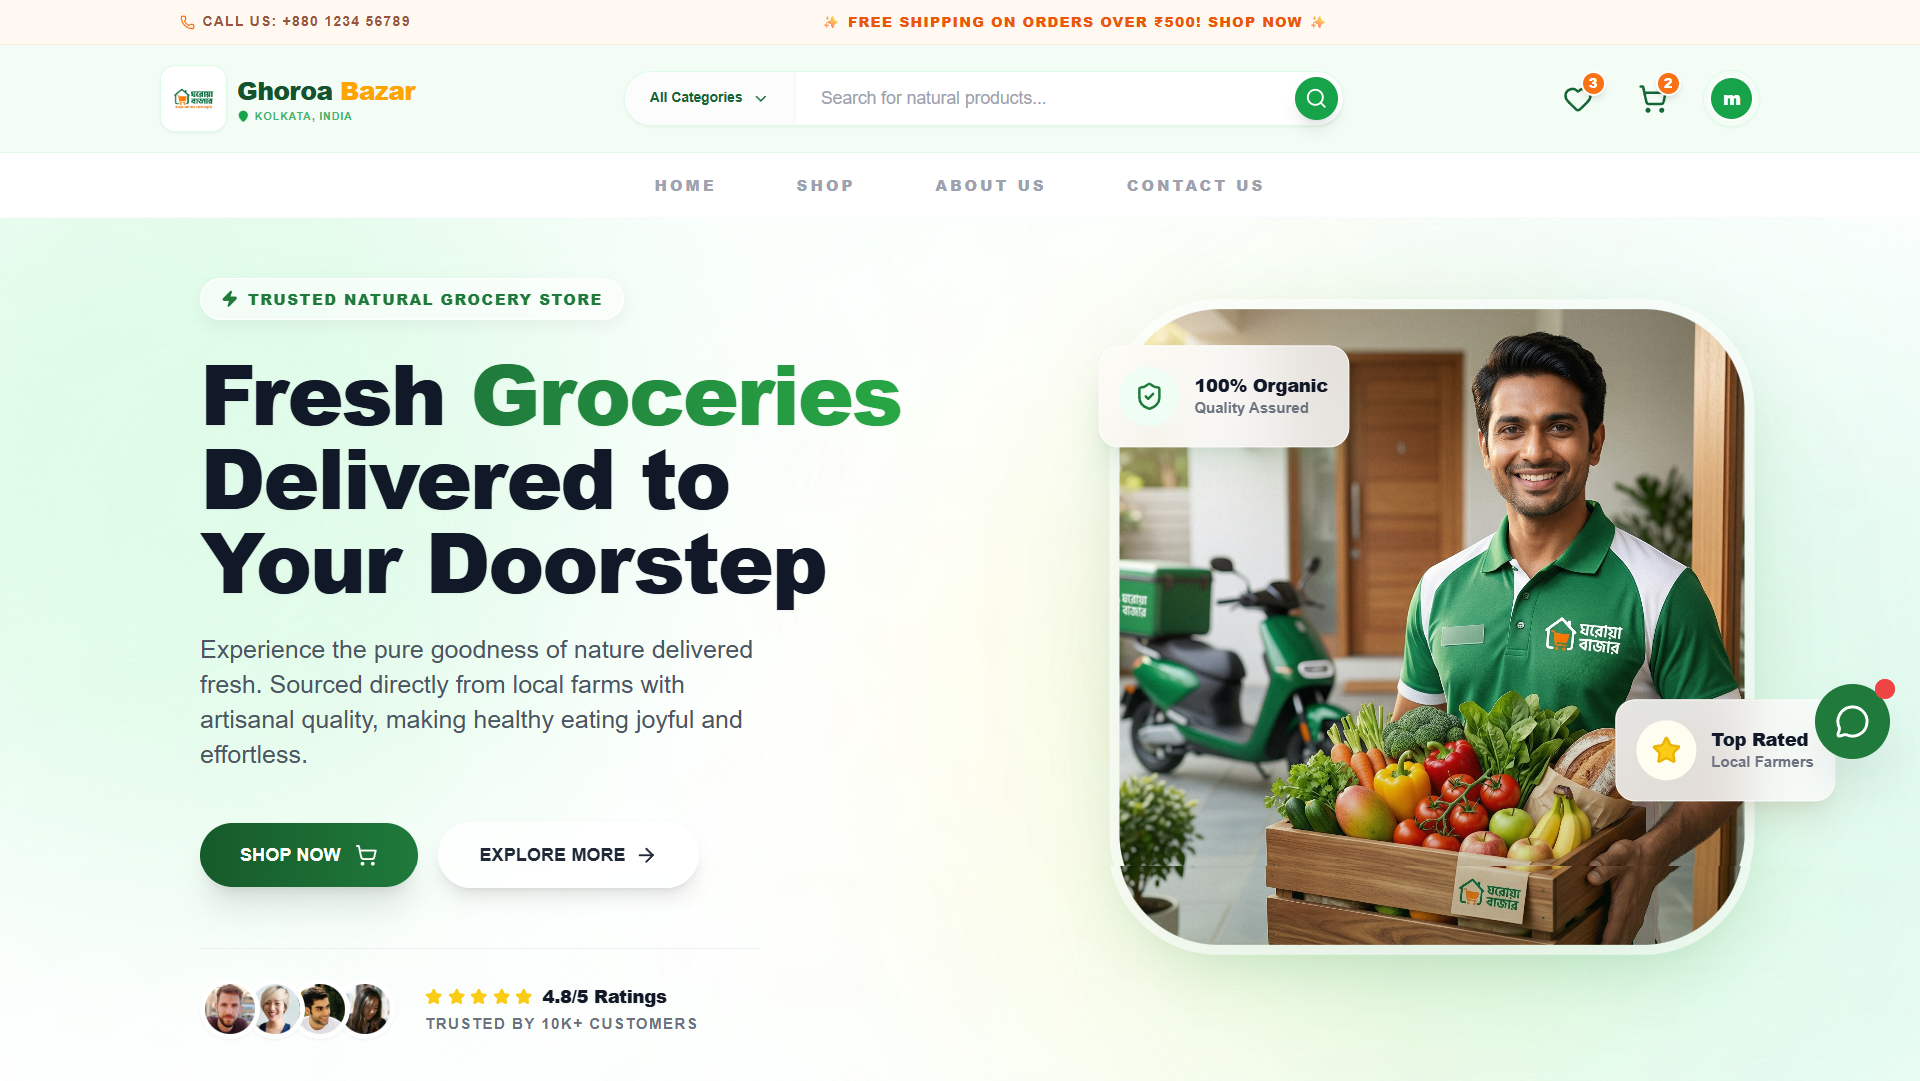
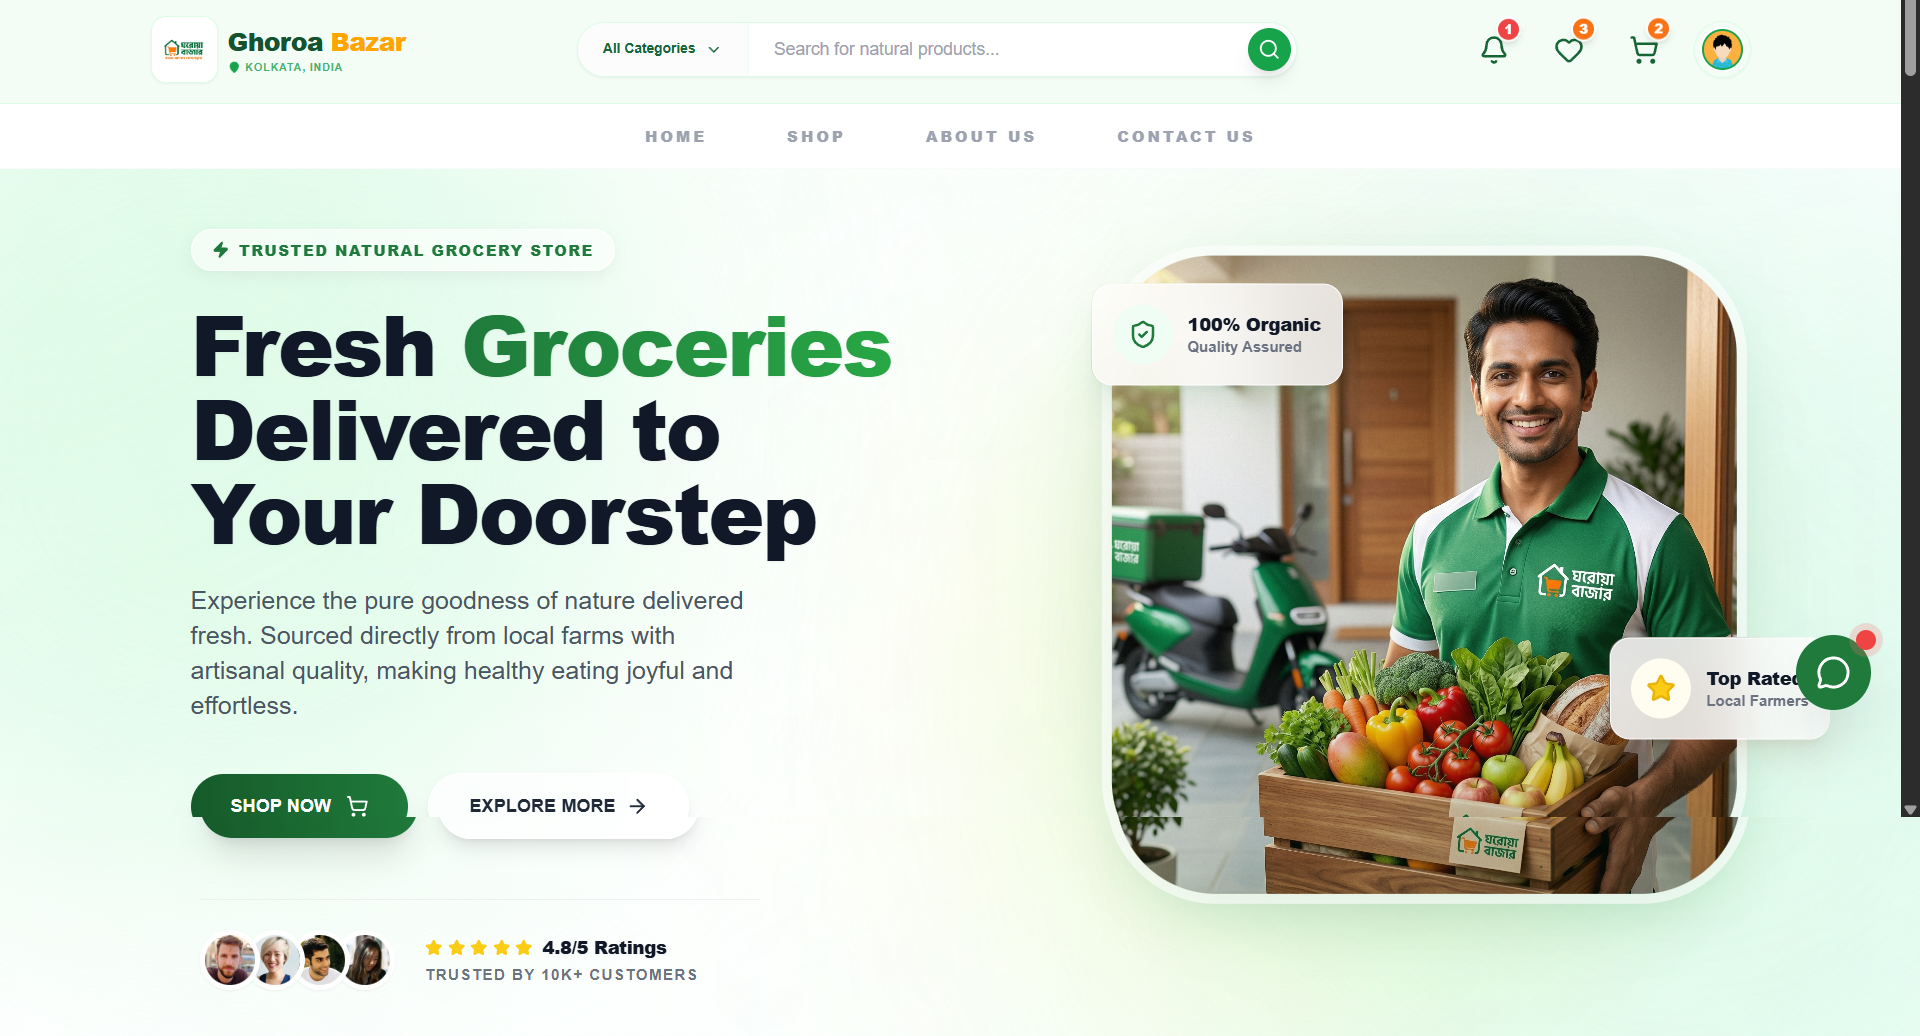
feat: document new real-time notifications, PDF generation, and UI toasts, update the technology stack, and add new screenshots.

diff --git a/README.md b/README.md
@@ -38,6 +38,8 @@ https://ghoroa-bazar.vercel.app/
 - **Message Centre** — Read customer messages submitted through the contact form
 
 ### ✨ Advanced Features
+- **Real-Time Notifications** — Instant updates for order status using WebSockets (Socket.io)
+- **PDF Invoice Generation** — Automatically generate, download, and print professional order invoices using jsPDF
 - **Smart Product Recommendations** — Suggests products based on:
   - Current category being viewed
   - Items already in the cart
@@ -49,7 +51,7 @@ https://ghoroa-bazar.vercel.app/
   - Fallback contact prompt for unanswered queries
 - **Animated Hero Banner** — Full-width hero with floating animations and parallax effects (Framer Motion)
 - **Responsive Design** — Fully mobile-friendly layout across all screen sizes
-- **Scroll-to-Top Button** — Global floating button for quick navigation
+- **Elegant UI Toasts** — Non-blocking, smooth push notifications for success/error alerts (`react-hot-toast`)
 
 ---
 
@@ -79,11 +81,13 @@ User → React Frontend (Vite) ──HTTP──▶ Express REST API ──▶ Mo
 | **Frontend** | React 18 (Vite), Tailwind CSS, Framer Motion |
 | **Backend** | Node.js, Express.js |
 | **Database** | MongoDB, Mongoose ODM |
+| **Real-Time / WebSockets** | Socket.io |
 | **Authentication** | JSON Web Tokens (JWT), bcrypt |
 | **Image Hosting** | Cloudinary + Multer |
 | **Email Service** | Nodemailer |
 | **Payment** | Razorpay |
 | **State Management** | React Context API |
+| **PDF Generation**| jsPDF + jsPDF-AutoTable |
 | **Routing** | React Router v6 |
 | **Dev Tools** | Nodemon, Vite HMR |
 
